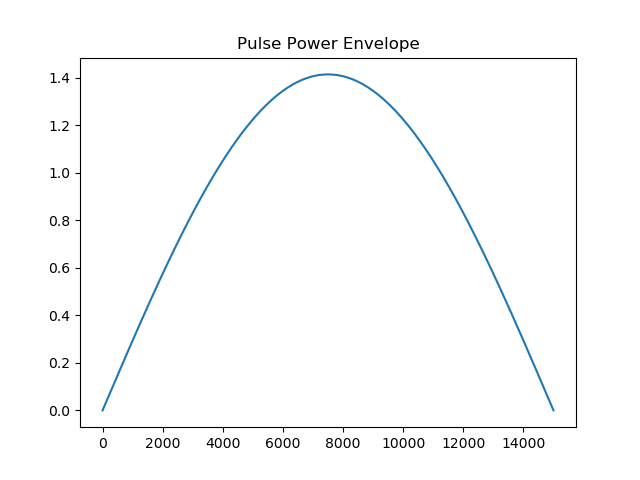
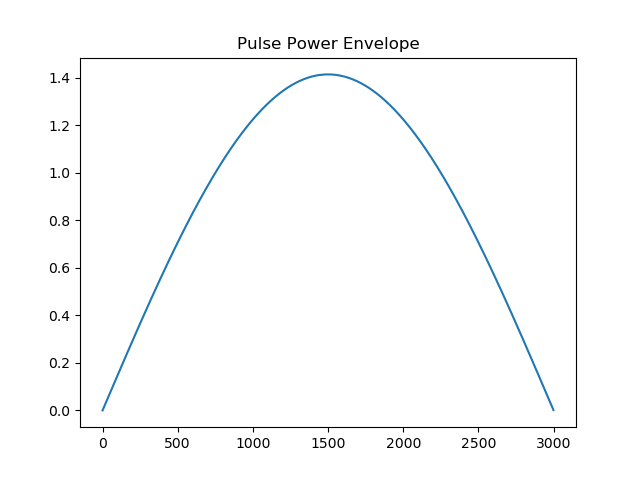
signal detection

Changed region(s): [[0.2188, 0.9062, 0.5625, 0.9375], [0.5938, 0.9062, 0.9062, 0.9375]]

diff --git a/Target/Target.py b/Target/Target.py
@@ -1,7 +1,12 @@
 ## Simple Target 
 
 import uhd
-
+import matplotlib.pyplot as plt
+import numpy as np
+import sys
+import signal
+import time
+import threading
 
 # Class Target:
 # {
@@ -16,16 +21,103 @@ import uhd
 #         self.max_acceleration = max_acceleration
 #         self.distance = start_distance
 # }
-num_samps = 16384 # number of samples received
-center_freq = 915e6 # Hz
-sample_rate = 1e6 # Hz
+
+def exit_gracefully(signum, frame):
+    # Stop Stream
+    stream_cmd = uhd.types.StreamCMD(uhd.types.StreamMode.stop_cont)
+    streamer.issue_stream_cmd(stream_cmd)
+    print("Exiting Gracefully")
+    sys.exit(0)
+
+# Receive Samples
+def rx(num_samps):
+    samples = np.zeros(num_samps, dtype=np.complex64)
+    for i in range(num_samps//buffer_size):
+        streamer.recv(recv_buffer, metadata)
+        samples[i*buffer_size:(i+1)*buffer_size] = recv_buffer[0]
+    return samples
+
+
+def plot_spectrogram(samples, num_samps, samp_rate, center_freq):
+    binLen = 128
+    shaped = np.reshape(samples, (binLen, int(num_samps/binLen)) )
+    ffts = np.abs(np.fft.fftshift(np.fft.fft(shaped, axis=1),axes=1))
+
+    f = np.fft.fftshift(np.fft.fftfreq(int(num_samps/binLen), 1/samp_rate))
+    f = f + center_freq
+    t = np.arange(0, num_samps/samp_rate, num_samps/samp_rate/binLen)
+
+    plt.clf()
+    plt.pcolormesh(f, t, ffts, shading="gouraud")
+    plt.title("Spectrogram")
+    plt.xlabel('Frequency [Hz]')
+    plt.ylabel('Time [sec]')
+    plt.show()
+
+
+
+num_samps = 2**11 #2**12 #4096 # number of samples received
+center_freq = 1900e6 # Hz
+samp_rate = 2e6 # Hz
 gain = 31.5 # dB
-duration = num_samps/sample_rate # seconds
+duration = num_samps/samp_rate # seconds
+buffer_size = 1024
 
 usrp = uhd.usrp.MultiUSRP("serial=E4R22N4UP")
 usrp.set_rx_antenna("RX2")
 usrp.set_tx_antenna("TX/RX")
 
+usrp.set_rx_rate(samp_rate, 0)
+usrp.set_rx_freq(uhd.libpyuhd.types.tune_request(center_freq), 0)
+usrp.set_rx_gain(gain, 0)
+# Set up the stream and receive buffer
+st_args = uhd.usrp.StreamArgs("fc32", "sc16")
+st_args.channels = [0]
+metadata = uhd.types.RXMetadata()
+streamer = usrp.get_rx_stream(st_args)
+recv_buffer = np.zeros((1, buffer_size), dtype=np.complex64)
+# Start Stream
+stream_cmd = uhd.types.StreamCMD(uhd.types.StreamMode.start_cont)
+stream_cmd.stream_now = True
+streamer.issue_stream_cmd(stream_cmd)
+
+signal.signal(signal.SIGINT, exit_gracefully)
+
+#pow = []
+signal_max_len = 8192
+signal_exists = 0
+sig_buffer = np.zeros((signal_max_len), dtype=np.complex64)
+
 while(True):
-    samples = usrp.recv_num_samps(num_samps, center_freq, sample_rate, [0], gain) # units: N, Hz, Hz, list of channel IDs, dB
-    usrp.send_waveform(samples, duration, center_freq, sample_rate, [0], gain)
+    streamer.recv(recv_buffer, metadata)
+    if np.max(np.abs(recv_buffer[0])) > 0.2:
+        if signal_exists + buffer_size > signal_max_len:
+            print("Signal Too Long")
+            exit_gracefully(0,0)    
+        sig_buffer[signal_exists:signal_exists+buffer_size] = recv_buffer[0]
+        signal_exists += buffer_size
+    else:
+        if signal_exists > 0:
+            print("Signal Detected")
+            plt.clf()
+            plt.plot(np.abs(sig_buffer[0:signal_exists]))
+            plt.show()
+        signal_exists = 0
+        
+
+
+
+    #    print("Signal Detected")
+    #    plt.clf()
+    #    plt.plot(np.abs(recv_buffer[0]))
+    #    plt.show()
+    # pow.append(max(np.abs(recv_buffer[0])))
+    # #samples = rx(num_samps)
+    # #pow.append(10*np.log10(np.mean(np.abs(samples)**2)))
+    # #plot_spectrogram(samples, num_samps, samp_rate, center_freq)
+    # if(len(pow) % 100 == 0):
+    #    plt.clf()
+    #    plt.plot(pow)
+    #    plt.show()
+
+    #usrp.send_waveform(samples, duration, center_freq, sample_rate, [0], gain)

diff --git a/Target/SimpleTarget.py b/Target/SimpleTarget.py
@@ -25,14 +25,14 @@ from PyQt5 import Qt
 from gnuradio import qtgui
 from gnuradio.filter import firdes
 import sip
+from gnuradio import blocks
+import pmt
 from gnuradio import gr
 import sys
 import signal
 from argparse import ArgumentParser
 from gnuradio.eng_arg import eng_float, intx
 from gnuradio import eng_notation
-from gnuradio import uhd
-import time
 from gnuradio import qtgui
 
 class SimpleTarget(gr.top_block, Qt.QWidget):
@@ -72,27 +72,11 @@ class SimpleTarget(gr.top_block, Qt.QWidget):
         # Variables
         ##################################################
         self.samp_rate = samp_rate = 1e6
-        self.f0 = f0 = 915e6
+        self.f0 = f0 = 1.9e9
 
         ##################################################
         # Blocks
         ##################################################
-        self.uhd_usrp_source_0_0 = uhd.usrp_source(
-            ",".join(('serial=E4R22N4UP', "")),
-            uhd.stream_args(
-                cpu_format="fc32",
-                args='',
-                channels=list(range(0,1)),
-            ),
-        )
-        self.uhd_usrp_source_0_0.set_center_freq(f0, 0)
-        self.uhd_usrp_source_0_0.set_rx_agc(False, 0)
-        self.uhd_usrp_source_0_0.set_gain(0, 0)
-        self.uhd_usrp_source_0_0.set_antenna('RX2', 0)
-        self.uhd_usrp_source_0_0.set_bandwidth(samp_rate, 0)
-        self.uhd_usrp_source_0_0.set_samp_rate(samp_rate)
-        # No synchronization enforced.
-        self.uhd_usrp_source_0_0.set_block_alias("uhd_rx")
         self.qtgui_waterfall_sink_x_0 = qtgui.waterfall_sink_c(
             256, #size
             firdes.WIN_BLACKMAN_hARRIS, #wintype
@@ -122,17 +106,19 @@ class SimpleTarget(gr.top_block, Qt.QWidget):
             self.qtgui_waterfall_sink_x_0.set_color_map(i, colors[i])
             self.qtgui_waterfall_sink_x_0.set_line_alpha(i, alphas[i])
 
-        self.qtgui_waterfall_sink_x_0.set_intensity_range(-140, 10)
+        self.qtgui_waterfall_sink_x_0.set_intensity_range(-80, 10)
 
         self._qtgui_waterfall_sink_x_0_win = sip.wrapinstance(self.qtgui_waterfall_sink_x_0.pyqwidget(), Qt.QWidget)
         self.top_grid_layout.addWidget(self._qtgui_waterfall_sink_x_0_win)
+        self.blocks_file_source_0 = blocks.file_source(gr.sizeof_gr_complex*1, '/home/sdr/Desktop/tmp.iq', False, 0, 0)
+        self.blocks_file_source_0.set_begin_tag(pmt.PMT_NIL)
 
 
 
         ##################################################
         # Connections
         ##################################################
-        self.connect((self.uhd_usrp_source_0_0, 0), (self.qtgui_waterfall_sink_x_0, 0))
+        self.connect((self.blocks_file_source_0, 0), (self.qtgui_waterfall_sink_x_0, 0))
 
     def closeEvent(self, event):
         self.settings = Qt.QSettings("GNU Radio", "SimpleTarget")
@@ -145,15 +131,12 @@ class SimpleTarget(gr.top_block, Qt.QWidget):
     def set_samp_rate(self, samp_rate):
         self.samp_rate = samp_rate
         self.qtgui_waterfall_sink_x_0.set_frequency_range(0, self.samp_rate)
-        self.uhd_usrp_source_0_0.set_samp_rate(self.samp_rate)
-        self.uhd_usrp_source_0_0.set_bandwidth(self.samp_rate, 0)
 
     def get_f0(self):
         return self.f0
 
     def set_f0(self, f0):
         self.f0 = f0
-        self.uhd_usrp_source_0_0.set_center_freq(self.f0, 0)
 
 
 

diff --git a/RadarSystem/Radar.py b/RadarSystem/Radar.py
@@ -4,13 +4,15 @@ import numpy as np
 import scipy.constants as sc
 import scipy.signal as sig
 import matplotlib.pyplot as plt
+import time
 
-samp_rate = 1e6  #hz
+
+samp_rate = 2e6  #hz
 prf = 100 #Hz
-duty_factor = 1.5 #.05
-β = 300e3; #Pulse Bandwidth
+duty_factor = 0.15 #.05
+β = 400e3; #Pulse Bandwidth
 repetitions = 128
-fc = 915e6; #Hz
+fc = 1.9e9; #Hz
 
 tau = duty_factor * (1/prf) # Length of transmit time in seconds
 lam = (1/fc) * sc.speed_of_light
@@ -47,7 +49,7 @@ def single_pulse(samp_rate, prf, tau, β, target_pow = 0, envelope_type="Rectang
     
     
     
-t, p = single_pulse(samp_rate, prf, tau, β, pulse_type="NLFM", envelope_type="HalfSin") #, envelope_type="HalfSin")            
+t, p = single_pulse(samp_rate, prf, tau, β, pulse_type="Decreasing", envelope_type="HalfSin") #, envelope_type="HalfSin")            
     
     
 
@@ -62,10 +64,11 @@ usrp.set_tx_antenna("TX/RX")
 
 print(duration)
 
-#while(True):
-usrp.send_waveform(p, duration, fc, samp_rate, [0], gain)
+# while(True):
+#     usrp.send_waveform(p, duration, fc, samp_rate, [0], gain)
+#     time.sleep(0.030)
 
-binLen = 50
+binLen = 25
 shaped = np.reshape(p, (binLen, int(len(p)/binLen) ))
 ffts = np.abs(np.fft.fftshift(np.fft.fft(shaped, axis=1),axes=1))
 
